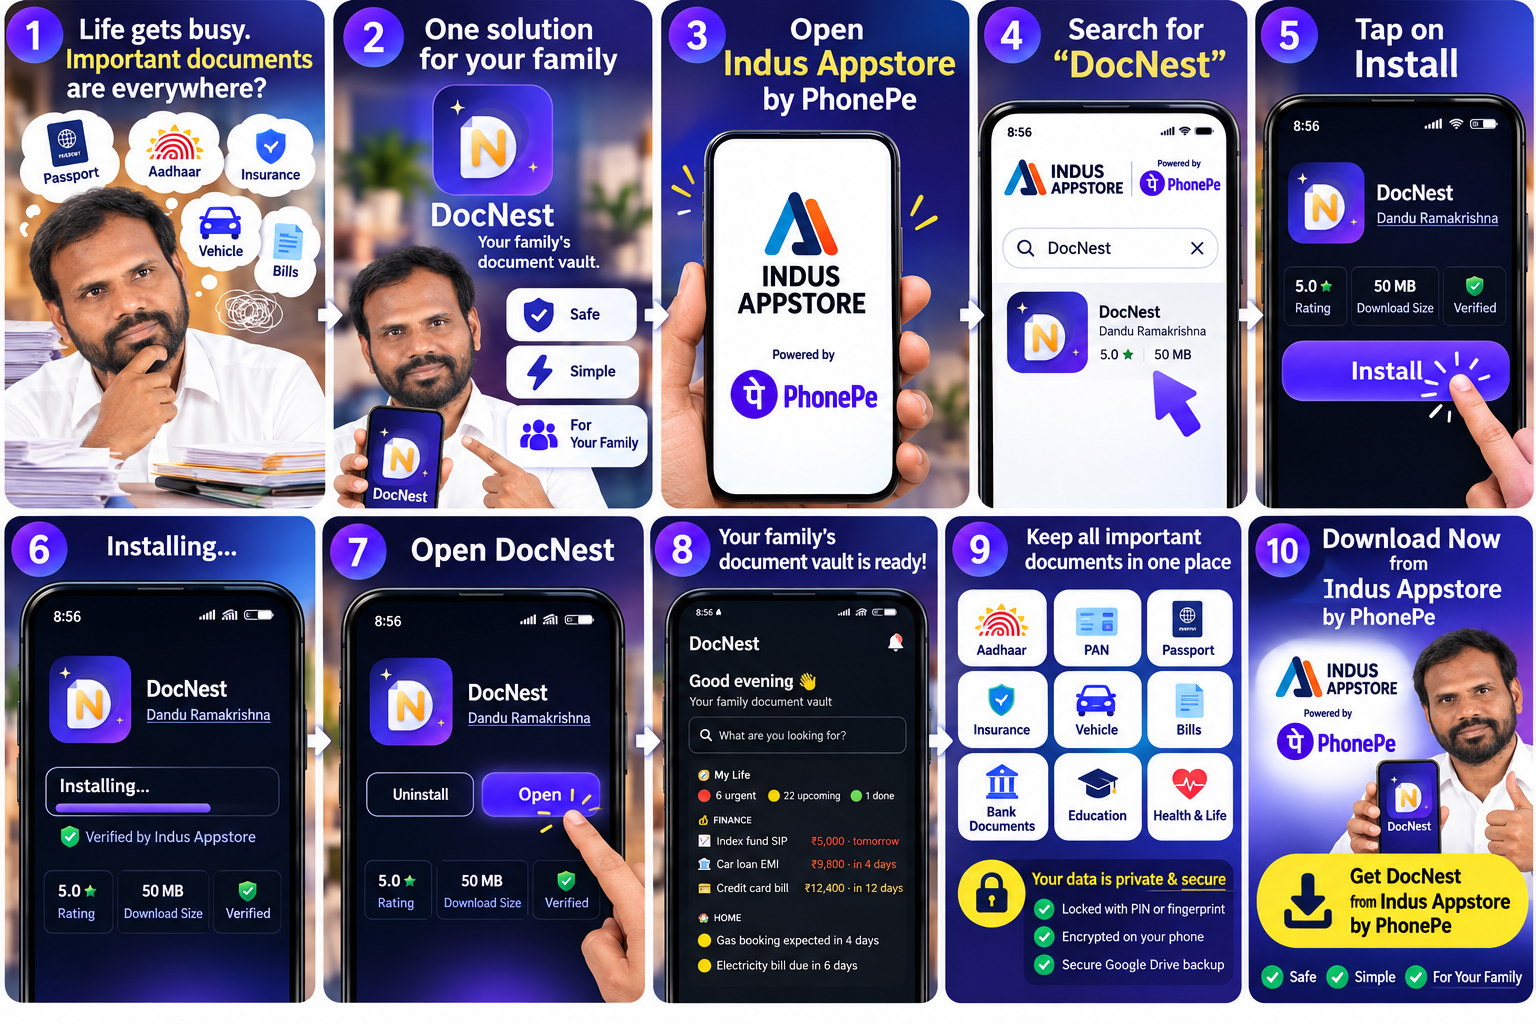
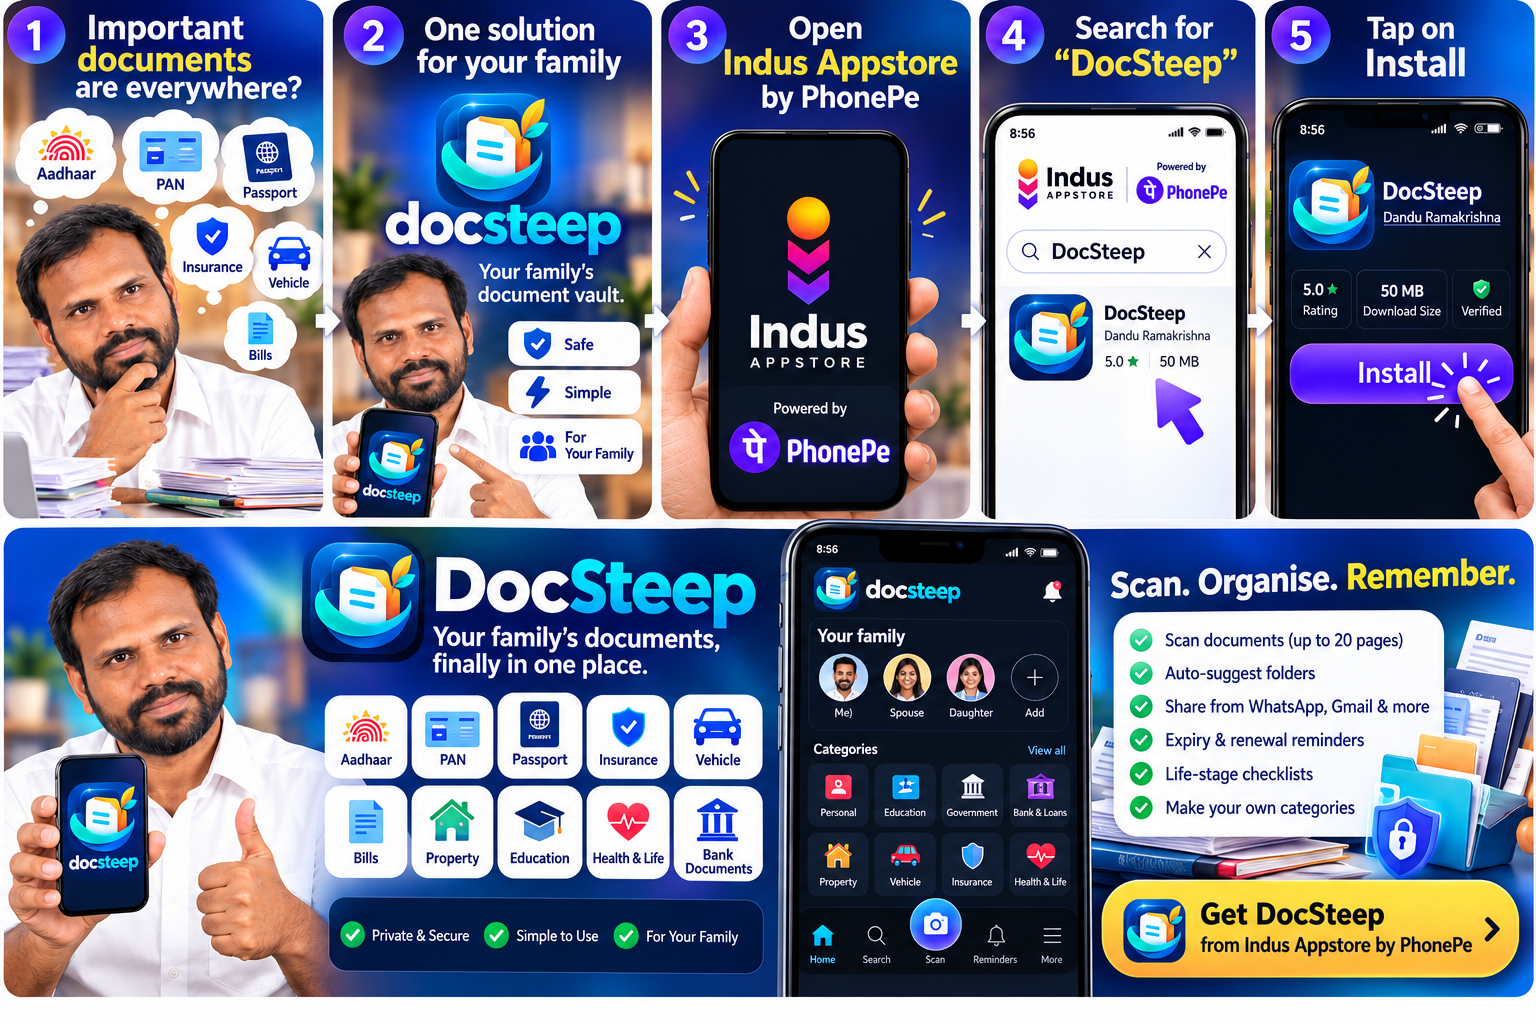
Replace install guide with DocSteep version and remove DocNest references
- New DocSteep install graphic (search DocSteep on Indus Appstore)
- Remove the old DocNest story graphic
- Drop "formerly DocNest" and rename wording from the site and README

diff --git a/index.html b/index.html
@@ -298,7 +298,7 @@
   <header class="hero">
     <div class="wrap hero-grid">
       <div>
-        <div class="pill"><b>●</b> New in 1.0.4: DocNest is now DocSteep</div>
+        <div class="pill"><b>●</b> New in 1.0.4: Banks &amp; Loans</div>
         <h1>One organised home for your <span class="grad">family's documents</span></h1>
         <p class="lead">Aadhaar, PAN, passports, insurance, certificates, vehicle papers, bills and trips, kept private, encrypted and always at hand. DocSteep also tells you what's missing, what's expiring and what needs your attention next.</p>
         <div class="cta">
@@ -333,12 +333,12 @@
     <div class="wrap">
       <div class="center reveal">
         <span class="eyebrow">What's new · Version 1.0.4</span>
-        <h2>DocNest is now DocSteep</h2>
-        <p class="lead">Same private family vault, with a fresh new name and logo. Just update from the Indus Appstore and carry on.</p>
+        <h2>Fresh look, new Banks &amp; Loans</h2>
+        <p class="lead">The same private family vault with a fresh new look. Just update from the Indus Appstore and carry on.</p>
       </div>
       <div class="new-grid">
-        <div class="new-card reveal"><span class="tag">New name</span><h3>A fresh name and logo</h3><p>The new DocSteep icon and name in all 9 languages, plus a new website at docsteep.snakri.space.</p></div>
-        <div class="new-card reveal"><span class="tag">Nothing to redo</span><h3>Your data stays put</h3><p>Documents, Drive backups, PIN and settings stay exactly as they are. It's the same app, updated in place.</p></div>
+        <div class="new-card reveal"><span class="tag">New look</span><h3>A fresh logo</h3><p>The new DocSteep icon across the app in all 9 languages, plus a new website at docsteep.snakri.space.</p></div>
+        <div class="new-card reveal"><span class="tag">Nothing to redo</span><h3>Your data stays put</h3><p>Updating keeps your documents, Drive backups, PIN and settings exactly as they are.</p></div>
         <div class="new-card reveal"><span class="tag">New category</span><h3>Banks &amp; Loans</h3><p>Passbooks, cards, FDs and every loan paper grouped by bank, with reminders before an FD matures or a loan ends.</p></div>
       </div>
     </div>
@@ -350,8 +350,6 @@
       <span class="eyebrow">Why DocSteep</span>
       <h2>Important papers are everywhere. Until now.</h2>
       <p class="lead">Documents get lost in drawers, WhatsApp chats and inboxes, and renewals slip by unnoticed. DocSteep began as a fix for my own family's paperwork. Now it's for every family.</p>
-      <img src="assets/docnest-story.png" alt="Documents everywhere, then scan, organise, save, your family vault, never miss a deadline" loading="lazy" />
-      <p class="note">This story graphic was made when the app was still called DocNest.</p>
     </div>
   </section>
 
@@ -462,8 +460,7 @@
         <div><b>📱 New phone?</b>Sign in with the same Google account to restore</div>
       </div>
 
-      <img class="install-img reveal" src="assets/how-to-install.png" alt="How to install the app from the Indus Appstore in 10 steps" loading="lazy" />
-      <p class="note">This guide shows the old DocNest name. The steps are the same; the app now appears as DocSteep.</p>
+      <img class="install-img reveal" src="assets/how-to-install.png" alt="How to get DocSteep: search DocSteep on the Indus Appstore by PhonePe and tap Install" loading="lazy" />
     </div>
   </section>
 
@@ -526,7 +523,7 @@
           <a href="https://github.com/ramakrishnadandu/DocSteep-Public/issues" target="_blank" rel="noopener">Report an issue</a>
         </div>
       </div>
-      <p class="disclaimer">DocSteep is free to use and shows small, labelled sponsored banners on the Tools screens only. Calculators and suggestions are for education and planning only, not professional medical, tax, legal, insurance or investment advice. DocSteep is not affiliated with any government body, bank or credit bureau. Formerly DocNest. Made with care in India 🇮🇳</p>
+      <p class="disclaimer">DocSteep is free to use and shows small, labelled sponsored banners on the Tools screens only. Calculators and suggestions are for education and planning only, not professional medical, tax, legal, insurance or investment advice. DocSteep is not affiliated with any government body, bank or credit bureau. Made with care in India 🇮🇳</p>
     </div>
   </footer>
 

diff --git a/README.md b/README.md
@@ -8,7 +8,7 @@
 
 **Private · Encrypted · Family-first**
 
-*Formerly **DocNest**. Version **1.0.4** is out now.*
+*Version **1.0.4** is out now.*
 
 [![Available on Indus Appstore](https://img.shields.io/badge/Download-Indus%20Appstore-1a73e8?style=for-the-badge&logo=android&logoColor=white)](https://www.indusappstore.com/apps/productivity/docnest/com.docnest/?page=details&id=com.docnest)
 [![Website](https://img.shields.io/badge/Website-docsteep.snakri.space-0f9d58?style=for-the-badge&logo=googlechrome&logoColor=white)](https://docsteep.snakri.space)
@@ -29,13 +29,13 @@
 
 ## 🆕 What's new in 1.0.4
 
-**DocNest is now DocSteep!** It's the same private family vault, with a fresh new name and logo.
+The same private family vault, with a fresh new look.
 
-- 🏷 **New name and logo.** The DocSteep name now appears in all 9 languages, and there's a new website at **[docsteep.snakri.space](https://docsteep.snakri.space)**.
-- 💾 **Nothing to redo.** Your documents, Drive backups, PIN and settings stay exactly as they are. Just update and carry on.
+- 🏷 **Fresh logo.** The new DocSteep icon appears across the app in all 9 languages, and there's a new website at **[docsteep.snakri.space](https://docsteep.snakri.space)**.
+- 💾 **Nothing to redo.** Updating keeps your documents, Drive backups, PIN and settings exactly as they are.
 - 🏦 **New Banks & Loans category.** Passbooks, cards, FDs and every loan paper are grouped by bank, with maturity and loan-end reminders.
 
-> Already have DocNest? Open the Indus Appstore and tap **Update**. It's the same app (`com.docnest`), so it updates in place.
+> Already installed? Open the Indus Appstore and tap **Update**.
 
 ---
 
@@ -46,11 +46,6 @@ Aadhaar, PAN, passports, insurance policies, school certificates, vehicle papers
 **DocSteep** was built to solve exactly that. It is a private, family-first home for the paperwork of life, and an assistant that tells you **what is missing, what is expiring and what needs your attention next**.
 
 > 💡 DocSteep started as the developer's solution to their own family's document chaos. It is now available for every family.
-
-<div align="center">
-<img src="assets/docnest-story.png" alt="Documents everywhere → Scan, organise, save → Your family vault → Never miss a deadline" width="100%" />
-<br /><sub>This story graphic was made when the app was still called DocNest.</sub>
-</div>
 
 ---
 
@@ -210,8 +205,7 @@ Family documents are some of the most sensitive data you own, so DocSteep was de
 Download DocSteep from the **[Indus Appstore](https://www.indusappstore.com/apps/productivity/docnest/com.docnest/?page=details&id=com.docnest)** on any Android phone (Android 8.0 or newer). You can also open the Indus Appstore, search for **"DocSteep"** and tap **Install**.
 
 <div align="center">
-<img src="assets/how-to-install.png" alt="How to install the app from the Indus Appstore in 10 steps" width="100%" />
-<br /><sub>This guide shows the old DocNest name. The steps are the same; the app now appears as DocSteep.</sub>
+<img src="assets/how-to-install.png" alt="How to get DocSteep: search DocSteep on the Indus Appstore by PhonePe and tap Install" width="100%" />
 </div>
 
 ### 2. First-time setup
@@ -306,6 +300,6 @@ DocSteep is free to use and shows small, labelled sponsored banners on the Tools
 
 **DocSteep: one organised home for your family's documents.** 💙
 
-Formerly DocNest · Made with care in India 🇮🇳
+Made with care in India 🇮🇳
 
 </div>
